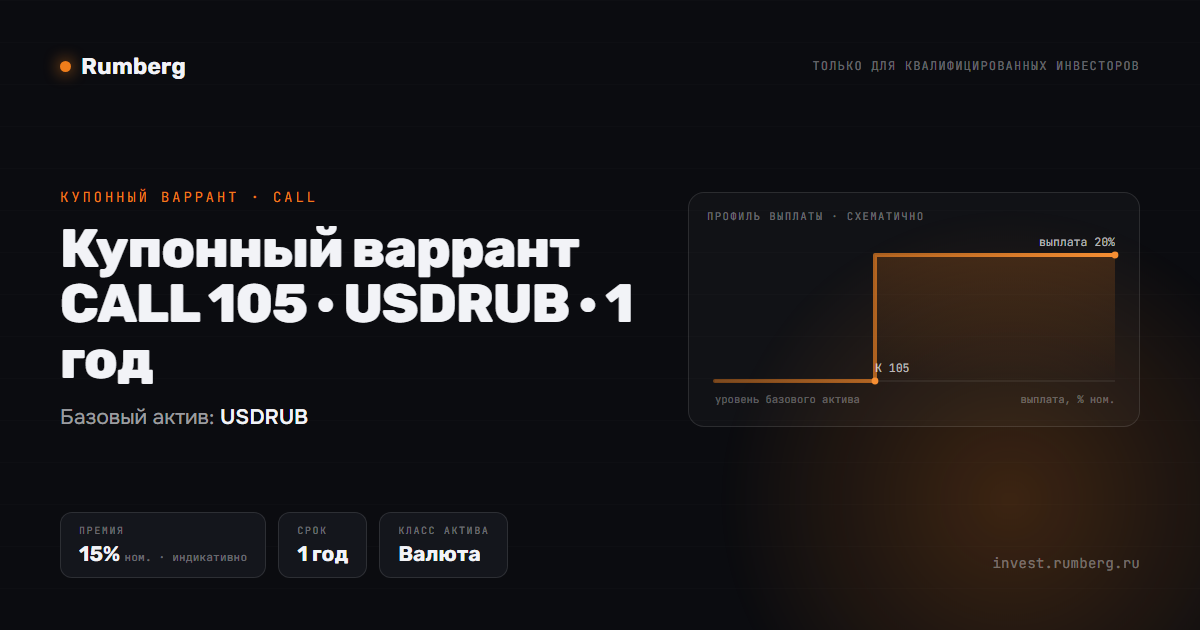
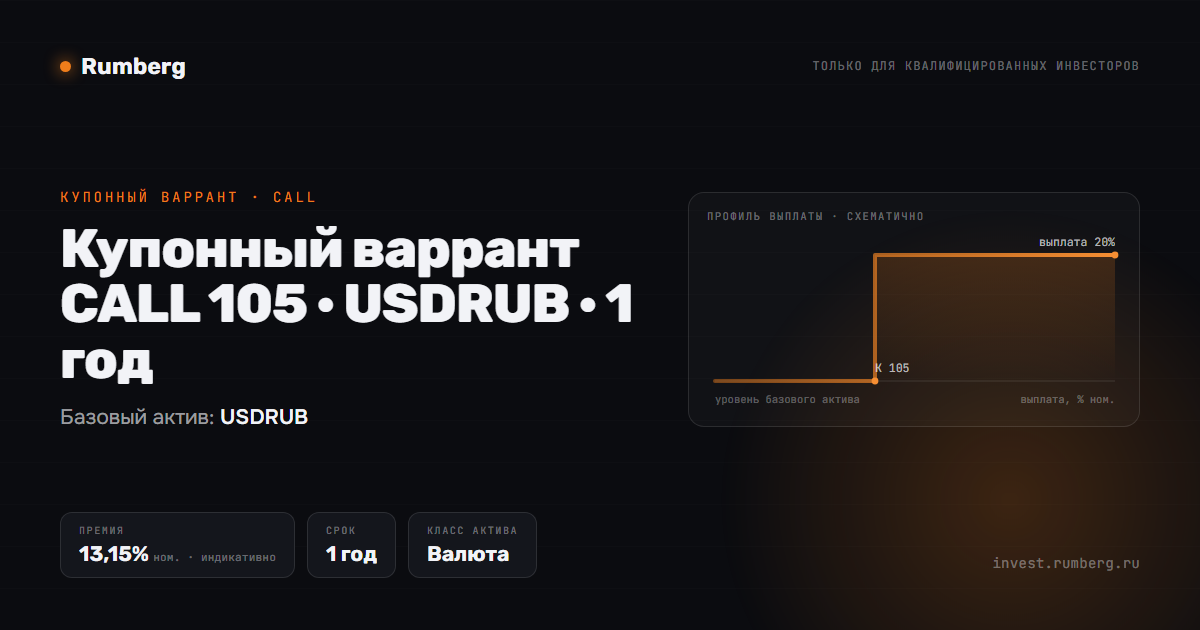
USDRUB: оставлены два купонных варранта CALL 105, доход на премию в one-pager
На доске остаются DG-USDRUB-C105-1027 (1 год, выплата 20%, премия 13,15%)
и DG-USDRUB-C105-1028 (2 года, выплата 40%, премия 25,25%). CALL 100 на
1 и 2 года сняты: страницы p/ и обложки og/ удалены, пререндер доски и
главной пересобран.

One-pager купонного варранта: плитка «Доход на премию при выплате»
вместо «Макс. убыток» (убыток виден во второй строке примера); в описании
«получает 20% номинала — +N% к вложенной премии».

Changed region(s): [[0.0617, 0.8143, 0.4317, 0.9048]]

diff --git a/board.html b/board.html
@@ -340,7 +340,7 @@
         <div class="chips chips-sub"><span class="chips" id="f-tenor"></span><span class="chips" id="f-ccy"></span></div>
       </div>
       <div class="list-top"><button class="ta" id="toggle-all" type="button"></button></div>
-      <div class="list" id="list"><!-- seo:start --><div class="seo-pre"><p>Доска инструментов Rumberg: 120 структурных продуктов для квалифицированных инвесторов. Котировки индикативные, обновляются по мере пересчёта прайсинга.</p><h2>Дисконтные облигации</h2><ul><li>Дисконтная облигация на ВЭБ.РФ · 3 года.</li><li>Дисконтная облигация на ВЭБ.РФ · 5 лет.</li><li>Дисконтная облигация на Газпром нефть · 3 года.</li><li>Дисконтная облигация на Газпром нефть · 5 лет.</li><li>Дисконтная облигация на Магнит · 3 года.</li><li>Дисконтная облигация на Магнит · 5 лет.</li><li>Дисконтная облигация на Ростелеком · 3 года.</li><li>Дисконтная облигация на Ростелеком · 5 лет.</li><li>Дисконтная облигация на Северсталь · 3 года.</li><li>Дисконтная облигация на Северсталь · 5 лет.</li></ul><h2>Облигации с защитой капитала</h2><ul><li>Защита капитала · MU · 2 года, базовый актив — Micron Technology (MU), валюта USD.</li><li>Защита капитала · MU · до +50% · 2 года, базовый актив — Micron Technology (MU), валюта USD.</li><li>Защита капитала · QCOM · 2 года, базовый актив — Qualcomm (QCOM), валюта USD.</li><li>Защита капитала · QCOM · до +50% · 2 года, базовый актив — Qualcomm (QCOM), валюта USD.</li><li>Защита капитала · DELL · 2 года, базовый актив — Dell Technologies (DELL), валюта USD.</li><li>Защита капитала · DELL · до +50% · 2 года, базовый актив — Dell Technologies (DELL), валюта USD.</li><li>Защита капитала · SMCI · 2 года, базовый актив — Super Micro Computer (SMCI), валюта USD.</li><li>Защита капитала · SMCI · до +50% · 2 года, базовый актив — Super Micro Computer (SMCI), валюта USD.</li><li>Защита капитала · ORCL · 2 года, базовый актив — Oracle (ORCL), валюта USD.</li><li>Защита капитала · ORCL · до +50% · 2 года, базовый актив — Oracle (ORCL), валюта USD.</li><li>Защита капитала · MU · 3 года, базовый актив — Micron Technology (MU), валюта USD.</li><li>Защита капитала · MU · до +50% · 3 года, базовый актив — Micron Technology (MU), валюта USD.</li><li>Защита капитала · QCOM · 3 года, базовый актив — Qualcomm (QCOM), валюта USD.</li><li>Защита капитала · QCOM · до +50% · 3 года, базовый актив — Qualcomm (QCOM), валюта USD.</li><li>Защита капитала · DELL · 3 года, базовый актив — Dell Technologies (DELL), валюта USD.</li><li>Защита капитала · DELL · до +50% · 3 года, базовый актив — Dell Technologies (DELL), валюта USD.</li><li>Защита капитала · SMCI · 3 года, базовый актив — Super Micro Computer (SMCI), валюта USD.</li><li>Защита капитала · SMCI · до +50% · 3 года, базовый актив — Super Micro Computer (SMCI), валюта USD.</li><li>Защита капитала · ORCL · 3 года, базовый актив — Oracle (ORCL), валюта USD.</li><li>Защита капитала · ORCL · до +50% · 3 года, базовый актив — Oracle (ORCL), валюта USD.</li><li>Защита капитала · худшая из корзины · 1 год, базовый актив — Полюс / Сбербанк / Лукойл.</li><li>Защита капитала · худшая из корзины · 2 года, базовый актив — Полюс / Сбербанк / Лукойл.</li><li>Защита капитала · Сбербанк · 1 год.</li><li>Защита капитала · Лукойл · 1 год.</li><li>Защита капитала · Полюс · 1 год.</li><li>Защита капитала · Сбербанк · 2 года.</li><li>Защита капитала · Лукойл · 2 года.</li><li>Защита капитала · Полюс · 2 года.</li><li>Защита капитала · ОФЗ 26238 · 2 года.</li><li>Защита капитала · ОФЗ 26238 · рост от +5% · 2 года.</li><li>Защита капитала · CSI 300 · 2 года.</li><li>Защита капитала · CSI 300 · 3 года.</li><li>Защита капитала · S&amp;P 500 · 2 года.</li><li>Защита капитала · S&amp;P 500 · 3 года.</li><li>Защита капитала · ОФЗ 26238 · 3 года.</li><li>Защита капитала · ОФЗ 26248 · 2 года.</li></ul><h2>Варранты</h2><ul><li>CALL 100 · ОФЗ 26238 · 2 года.</li><li>CALL 100 · ОФЗ 26238 · 3 года.</li><li>CALL 105 · ОФЗ 26238 · 2 года.</li><li>CALL 105 · ОФЗ 26238 · 3 года.</li><li>CALL 100 · NBIS · 2 года, базовый актив — Nebius Group (NBIS), валюта USD.</li><li>CALL 100 · NBIS · 3 года, базовый актив — Nebius Group (NBIS), валюта USD.</li><li>CS 100–150 · NBIS · 2 года, базовый актив — Nebius Group (NBIS), валюта USD.</li><li>CS 100–150 · NBIS · 3 года, базовый актив — Nebius Group (NBIS), валюта USD.</li><li>CALL 100 · NVDA · 2 года, базовый актив — NVIDIA (NVDA), валюта USD.</li><li>CALL 100 · NVDA · 3 года, базовый актив — NVIDIA (NVDA), валюта USD.</li><li>CS 100–150 · NVDA · 2 года, базовый актив — NVIDIA (NVDA), валюта USD.</li><li>CS 100–150 · NVDA · 3 года, базовый актив — NVIDIA (NVDA), валюта USD.</li><li>CALL 100 · SPY · 2 года, базовый актив — S&amp;P 500 (SPY), валюта USD.</li><li>CALL 100 · SPY · 3 года, базовый актив — S&amp;P 500 (SPY), валюта USD.</li><li>CALL 100 · GLD · 2 года, базовый актив — Золото (GLD), валюта USD.</li><li>CALL 100 · GLD · 3 года, базовый актив — Золото (GLD), валюта USD.</li><li>CALL 100 · IBIT · 2 года, базовый актив — Bitcoin (IBIT), валюта USD.</li><li>CALL 100 · IBIT · 3 года, базовый актив — Bitcoin (IBIT), валюта USD.</li><li>CS 100–150 · IBIT · 2 года, базовый актив — Bitcoin (IBIT), валюта USD.</li><li>CS 100–150 · IBIT · 3 года, базовый актив — Bitcoin (IBIT), валюта USD.</li><li>CALL 100 · CSI 300 · 2 года, валюта USD.</li><li>CALL 100 · CSI 300 · 3 года, валюта USD.</li><li>CALL 100 · Hang Seng · 2 года, валюта USD.</li><li>CALL 100 · Hang Seng · 3 года, валюта USD.</li><li>CALL 100 · MU · 2 года, базовый актив — Micron Technology (MU), валюта USD.</li><li>CS 100–150 · MU · 2 года, базовый актив — Micron Technology (MU), валюта USD.</li><li>CALL 100 · QCOM · 2 года, базовый актив — Qualcomm (QCOM), валюта USD.</li><li>CS 100–150 · QCOM · 2 года, базовый актив — Qualcomm (QCOM), валюта USD.</li><li>CALL 100 · DELL · 2 года, базовый актив — Dell Technologies (DELL), валюта USD.</li><li>CS 100–150 · DELL · 2 года, базовый актив — Dell Technologies (DELL), валюта USD.</li><li>CALL 100 · SMCI · 2 года, базовый актив — Super Micro Computer (SMCI), валюта USD.</li><li>CS 100–150 · SMCI · 2 года, базовый актив — Super Micro Computer (SMCI), валюта USD.</li><li>CALL 100 · ORCL · 2 года, базовый актив — Oracle (ORCL), валюта USD.</li><li>CS 100–150 · ORCL · 2 года, базовый актив — Oracle (ORCL), валюта USD.</li><li>CALL 100 · MU · 3 года, базовый актив — Micron Technology (MU), валюта USD.</li><li>CS 100–150 · MU · 3 года, базовый актив — Micron Technology (MU), валюта USD.</li><li>CALL 100 · QCOM · 3 года, базовый актив — Qualcomm (QCOM), валюта USD.</li><li>CS 100–150 · QCOM · 3 года, базовый актив — Qualcomm (QCOM), валюта USD.</li><li>CALL 100 · DELL · 3 года, базовый актив — Dell Technologies (DELL), валюта USD.</li><li>CS 100–150 · DELL · 3 года, базовый актив — Dell Technologies (DELL), валюта USD.</li><li>CALL 100 · SMCI · 3 года, базовый актив — Super Micro Computer (SMCI), валюта USD.</li><li>CS 100–150 · SMCI · 3 года, базовый актив — Super Micro Computer (SMCI), валюта USD.</li><li>CALL 100 · ORCL · 3 года, базовый актив — Oracle (ORCL), валюта USD.</li><li>CS 100–150 · ORCL · 3 года, базовый актив — Oracle (ORCL), валюта USD.</li><li>CALL 100 · худшая из корзины · 1 год, базовый актив — Полюс / Сбербанк / Лукойл.</li><li>CALL 100 · худшая из корзины · 2 года, базовый актив — Полюс / Сбербанк / Лукойл.</li><li>CALL 100 · Сбербанк · 1 год.</li><li>CALL 100 · Лукойл · 1 год.</li><li>CALL 100 · Полюс · 1 год.</li><li>CALL 100 · Сбербанк · 2 года.</li><li>CALL 100 · Лукойл · 2 года.</li><li>CALL 100 · Полюс · 2 года.</li><li>Call, базовый актив — CNYRUB, срок 1 год.</li><li>CALL 100 · Газпром · 1 год.</li><li>CALL 100 · ДОМ.РФ · 1 год.</li><li>CALL 100 · ОФЗ 26254 · 2 года, базовый актив — ОФЗ-26254.</li><li>CALL 105 · ОФЗ 26254 · 2 года, базовый актив — ОФЗ-26254.</li><li>Средняя динамика корзины · 1 год, базовый актив — Газпром/Лукойл/Мечел/Озон/Полюс/ВК.</li><li>Средняя динамика корзины · 2 года, базовый актив — Газпром/Лукойл/Мечел/Озон/Полюс/ВК.</li><li>Средняя динамика корзины · 1 год, базовый актив — Лукойл/Озон/Полюс.</li><li>Средняя динамика корзины · 2 года, базовый актив — Лукойл/Озон/Полюс.</li></ul><h2>Бустеры</h2><ul><li>Бустер · Яндекс · 9 месяцев.</li><li>Бустер · Сбербанк · 9 месяцев.</li><li>Бустер · Лукойл · 9 месяцев.</li><li>Бустер · Т-Банк · 9 месяцев.</li></ul><h2>Автоколлы</h2><ul><li>Автоколл · Полупроводники США · 3 года, базовый актив — NVDA / AMD / INTC, валюта USD.</li><li>Автоколл · Big Tech США · 3 года, базовый актив — NVDA / TSLA / AMZN / GOOGL, валюта USD.</li></ul><h2>Реверс-конвертиблы</h2><ul><li>Реверс-конвертибл на Газпром · 6 месяцев.</li></ul><h2>Реверс-конвертиблы с условным купоном</h2><ul><li>Условный купон 28,5% · ОФЗ 26248 · 1 год.</li></ul><h2>Купонные варранты</h2><ul><li>Купонный варрант CALL 105 · ОФЗ 26248 · 1,5 года.</li><li>Купонный варрант CALL 100 · USDRUB · 1 год.</li><li>Купонный варрант CALL 100 · USDRUB · 2 года.</li><li>Купонный варрант CALL 105 · USDRUB · 1 год.</li><li>Купонный варрант CALL 105 · USDRUB · 2 года.</li></ul></div><!-- seo:end --></div>
+      <div class="list" id="list"><!-- seo:start --><div class="seo-pre"><p>Доска инструментов Rumberg: 118 структурных продуктов для квалифицированных инвесторов. Котировки индикативные, обновляются по мере пересчёта прайсинга.</p><h2>Дисконтные облигации</h2><ul><li>Дисконтная облигация на ВЭБ.РФ · 3 года.</li><li>Дисконтная облигация на ВЭБ.РФ · 5 лет.</li><li>Дисконтная облигация на Газпром нефть · 3 года.</li><li>Дисконтная облигация на Газпром нефть · 5 лет.</li><li>Дисконтная облигация на Магнит · 3 года.</li><li>Дисконтная облигация на Магнит · 5 лет.</li><li>Дисконтная облигация на Ростелеком · 3 года.</li><li>Дисконтная облигация на Ростелеком · 5 лет.</li><li>Дисконтная облигация на Северсталь · 3 года.</li><li>Дисконтная облигация на Северсталь · 5 лет.</li></ul><h2>Облигации с защитой капитала</h2><ul><li>Защита капитала · MU · 2 года, базовый актив — Micron Technology (MU), валюта USD.</li><li>Защита капитала · MU · до +50% · 2 года, базовый актив — Micron Technology (MU), валюта USD.</li><li>Защита капитала · QCOM · 2 года, базовый актив — Qualcomm (QCOM), валюта USD.</li><li>Защита капитала · QCOM · до +50% · 2 года, базовый актив — Qualcomm (QCOM), валюта USD.</li><li>Защита капитала · DELL · 2 года, базовый актив — Dell Technologies (DELL), валюта USD.</li><li>Защита капитала · DELL · до +50% · 2 года, базовый актив — Dell Technologies (DELL), валюта USD.</li><li>Защита капитала · SMCI · 2 года, базовый актив — Super Micro Computer (SMCI), валюта USD.</li><li>Защита капитала · SMCI · до +50% · 2 года, базовый актив — Super Micro Computer (SMCI), валюта USD.</li><li>Защита капитала · ORCL · 2 года, базовый актив — Oracle (ORCL), валюта USD.</li><li>Защита капитала · ORCL · до +50% · 2 года, базовый актив — Oracle (ORCL), валюта USD.</li><li>Защита капитала · MU · 3 года, базовый актив — Micron Technology (MU), валюта USD.</li><li>Защита капитала · MU · до +50% · 3 года, базовый актив — Micron Technology (MU), валюта USD.</li><li>Защита капитала · QCOM · 3 года, базовый актив — Qualcomm (QCOM), валюта USD.</li><li>Защита капитала · QCOM · до +50% · 3 года, базовый актив — Qualcomm (QCOM), валюта USD.</li><li>Защита капитала · DELL · 3 года, базовый актив — Dell Technologies (DELL), валюта USD.</li><li>Защита капитала · DELL · до +50% · 3 года, базовый актив — Dell Technologies (DELL), валюта USD.</li><li>Защита капитала · SMCI · 3 года, базовый актив — Super Micro Computer (SMCI), валюта USD.</li><li>Защита капитала · SMCI · до +50% · 3 года, базовый актив — Super Micro Computer (SMCI), валюта USD.</li><li>Защита капитала · ORCL · 3 года, базовый актив — Oracle (ORCL), валюта USD.</li><li>Защита капитала · ORCL · до +50% · 3 года, базовый актив — Oracle (ORCL), валюта USD.</li><li>Защита капитала · худшая из корзины · 1 год, базовый актив — Полюс / Сбербанк / Лукойл.</li><li>Защита капитала · худшая из корзины · 2 года, базовый актив — Полюс / Сбербанк / Лукойл.</li><li>Защита капитала · Сбербанк · 1 год.</li><li>Защита капитала · Лукойл · 1 год.</li><li>Защита капитала · Полюс · 1 год.</li><li>Защита капитала · Сбербанк · 2 года.</li><li>Защита капитала · Лукойл · 2 года.</li><li>Защита капитала · Полюс · 2 года.</li><li>Защита капитала · ОФЗ 26238 · 2 года.</li><li>Защита капитала · ОФЗ 26238 · рост от +5% · 2 года.</li><li>Защита капитала · CSI 300 · 2 года.</li><li>Защита капитала · CSI 300 · 3 года.</li><li>Защита капитала · S&amp;P 500 · 2 года.</li><li>Защита капитала · S&amp;P 500 · 3 года.</li><li>Защита капитала · ОФЗ 26238 · 3 года.</li><li>Защита капитала · ОФЗ 26248 · 2 года.</li></ul><h2>Варранты</h2><ul><li>CALL 100 · ОФЗ 26238 · 2 года.</li><li>CALL 100 · ОФЗ 26238 · 3 года.</li><li>CALL 105 · ОФЗ 26238 · 2 года.</li><li>CALL 105 · ОФЗ 26238 · 3 года.</li><li>CALL 100 · NBIS · 2 года, базовый актив — Nebius Group (NBIS), валюта USD.</li><li>CALL 100 · NBIS · 3 года, базовый актив — Nebius Group (NBIS), валюта USD.</li><li>CS 100–150 · NBIS · 2 года, базовый актив — Nebius Group (NBIS), валюта USD.</li><li>CS 100–150 · NBIS · 3 года, базовый актив — Nebius Group (NBIS), валюта USD.</li><li>CALL 100 · NVDA · 2 года, базовый актив — NVIDIA (NVDA), валюта USD.</li><li>CALL 100 · NVDA · 3 года, базовый актив — NVIDIA (NVDA), валюта USD.</li><li>CS 100–150 · NVDA · 2 года, базовый актив — NVIDIA (NVDA), валюта USD.</li><li>CS 100–150 · NVDA · 3 года, базовый актив — NVIDIA (NVDA), валюта USD.</li><li>CALL 100 · SPY · 2 года, базовый актив — S&amp;P 500 (SPY), валюта USD.</li><li>CALL 100 · SPY · 3 года, базовый актив — S&amp;P 500 (SPY), валюта USD.</li><li>CALL 100 · GLD · 2 года, базовый актив — Золото (GLD), валюта USD.</li><li>CALL 100 · GLD · 3 года, базовый актив — Золото (GLD), валюта USD.</li><li>CALL 100 · IBIT · 2 года, базовый актив — Bitcoin (IBIT), валюта USD.</li><li>CALL 100 · IBIT · 3 года, базовый актив — Bitcoin (IBIT), валюта USD.</li><li>CS 100–150 · IBIT · 2 года, базовый актив — Bitcoin (IBIT), валюта USD.</li><li>CS 100–150 · IBIT · 3 года, базовый актив — Bitcoin (IBIT), валюта USD.</li><li>CALL 100 · CSI 300 · 2 года, валюта USD.</li><li>CALL 100 · CSI 300 · 3 года, валюта USD.</li><li>CALL 100 · Hang Seng · 2 года, валюта USD.</li><li>CALL 100 · Hang Seng · 3 года, валюта USD.</li><li>CALL 100 · MU · 2 года, базовый актив — Micron Technology (MU), валюта USD.</li><li>CS 100–150 · MU · 2 года, базовый актив — Micron Technology (MU), валюта USD.</li><li>CALL 100 · QCOM · 2 года, базовый актив — Qualcomm (QCOM), валюта USD.</li><li>CS 100–150 · QCOM · 2 года, базовый актив — Qualcomm (QCOM), валюта USD.</li><li>CALL 100 · DELL · 2 года, базовый актив — Dell Technologies (DELL), валюта USD.</li><li>CS 100–150 · DELL · 2 года, базовый актив — Dell Technologies (DELL), валюта USD.</li><li>CALL 100 · SMCI · 2 года, базовый актив — Super Micro Computer (SMCI), валюта USD.</li><li>CS 100–150 · SMCI · 2 года, базовый актив — Super Micro Computer (SMCI), валюта USD.</li><li>CALL 100 · ORCL · 2 года, базовый актив — Oracle (ORCL), валюта USD.</li><li>CS 100–150 · ORCL · 2 года, базовый актив — Oracle (ORCL), валюта USD.</li><li>CALL 100 · MU · 3 года, базовый актив — Micron Technology (MU), валюта USD.</li><li>CS 100–150 · MU · 3 года, базовый актив — Micron Technology (MU), валюта USD.</li><li>CALL 100 · QCOM · 3 года, базовый актив — Qualcomm (QCOM), валюта USD.</li><li>CS 100–150 · QCOM · 3 года, базовый актив — Qualcomm (QCOM), валюта USD.</li><li>CALL 100 · DELL · 3 года, базовый актив — Dell Technologies (DELL), валюта USD.</li><li>CS 100–150 · DELL · 3 года, базовый актив — Dell Technologies (DELL), валюта USD.</li><li>CALL 100 · SMCI · 3 года, базовый актив — Super Micro Computer (SMCI), валюта USD.</li><li>CS 100–150 · SMCI · 3 года, базовый актив — Super Micro Computer (SMCI), валюта USD.</li><li>CALL 100 · ORCL · 3 года, базовый актив — Oracle (ORCL), валюта USD.</li><li>CS 100–150 · ORCL · 3 года, базовый актив — Oracle (ORCL), валюта USD.</li><li>CALL 100 · худшая из корзины · 1 год, базовый актив — Полюс / Сбербанк / Лукойл.</li><li>CALL 100 · худшая из корзины · 2 года, базовый актив — Полюс / Сбербанк / Лукойл.</li><li>CALL 100 · Сбербанк · 1 год.</li><li>CALL 100 · Лукойл · 1 год.</li><li>CALL 100 · Полюс · 1 год.</li><li>CALL 100 · Сбербанк · 2 года.</li><li>CALL 100 · Лукойл · 2 года.</li><li>CALL 100 · Полюс · 2 года.</li><li>Call, базовый актив — CNYRUB, срок 1 год.</li><li>CALL 100 · Газпром · 1 год.</li><li>CALL 100 · ДОМ.РФ · 1 год.</li><li>CALL 100 · ОФЗ 26254 · 2 года, базовый актив — ОФЗ-26254.</li><li>CALL 105 · ОФЗ 26254 · 2 года, базовый актив — ОФЗ-26254.</li><li>Средняя динамика корзины · 1 год, базовый актив — Газпром/Лукойл/Мечел/Озон/Полюс/ВК.</li><li>Средняя динамика корзины · 2 года, базовый актив — Газпром/Лукойл/Мечел/Озон/Полюс/ВК.</li><li>Средняя динамика корзины · 1 год, базовый актив — Лукойл/Озон/Полюс.</li><li>Средняя динамика корзины · 2 года, базовый актив — Лукойл/Озон/Полюс.</li></ul><h2>Бустеры</h2><ul><li>Бустер · Яндекс · 9 месяцев.</li><li>Бустер · Сбербанк · 9 месяцев.</li><li>Бустер · Лукойл · 9 месяцев.</li><li>Бустер · Т-Банк · 9 месяцев.</li></ul><h2>Автоколлы</h2><ul><li>Автоколл · Полупроводники США · 3 года, базовый актив — NVDA / AMD / INTC, валюта USD.</li><li>Автоколл · Big Tech США · 3 года, базовый актив — NVDA / TSLA / AMZN / GOOGL, валюта USD.</li></ul><h2>Реверс-конвертиблы</h2><ul><li>Реверс-конвертибл на Газпром · 6 месяцев.</li></ul><h2>Реверс-конвертиблы с условным купоном</h2><ul><li>Условный купон 28,5% · ОФЗ 26248 · 1 год.</li></ul><h2>Купонные варранты</h2><ul><li>Купонный варрант CALL 105 · ОФЗ 26248 · 1,5 года.</li><li>Купонный варрант CALL 105 · USDRUB · 1 год.</li><li>Купонный варрант CALL 105 · USDRUB · 2 года.</li></ul></div><!-- seo:end --></div>
       <div class="cmp-bar" id="cmp-bar">
         <span class="cnt" id="cmp-cnt"></span><span id="cmp-hint"></span>
         <button class="rst" id="cmp-reset" type="button">Сбросить</button>

diff --git a/onepager.html b/onepager.html
@@ -974,6 +974,12 @@
     const payoutRub = nom * pay / 100;
     const net = payoutRub - premiumRub;
     const mult = q ? pay / q : 0;
+    // Доход на вложенную премию при срабатывании — главный довод продукта,
+    // поэтому он вынесен в плитку и в описание, а не только мелкой подписью
+    // под примером (просьба Руслана 06.10.2026). Ниже порога — −100%, это
+    // сказано во второй строке примера, поэтому плитку «Макс. убыток» он заменил.
+    const roi = premiumRub ? Math.round(net / premiumRub * 100) : null;
+    const roiOk = roi != null && isFinite(roi);
     c = {
       badge: "Купонный варрант · структурная облигация",
       subtitle: "Фиксированная выплата " + S.fmtSmart(pay) + "% номинала, если " + (isWO ? BK.nom : inst.underlying) +
@@ -985,7 +991,8 @@
       params: [["Страйк (K)", S.fmtSmart(K) + "% нач. уровня", false],
         ["Выплата", S.fmtSmart(pay) + "% номинала", true],
         ["Срок", inst.tenor, false],
-        ["Макс. убыток", "премия", false]],
+        roiOk ? ["Доход на премию при выплате", (roi >= 0 ? "+" : "−") + Math.abs(roi) + "%", true]
+          : ["Макс. убыток", "премия", false]],
       exIntro: "Номинал " + S.fmtInt(nom) + " ₽ · премия " + S.fmt2(q) + "% = " + S.fmtInt(premiumRub) + " ₽",
       // Две строки, как у колл-спреда: третья не помещается в слайд 540px.
       // Берём крайние случаи — порог взят и порог не взят: между ними у продукта
@@ -1000,7 +1007,7 @@
         "% номинала, если на экспирацию " + uGenAsset + " не ниже страйка " + S.fmtSmart(K) +
         "%. Насколько именно актив выше страйка — на выплату не влияет: этим купонный варрант отличается от обычного CALL. " +
         "Инвестор платит только премию (" + S.fmt2(q) + "% номинала)" +
-        (mult > 1 ? " и при срабатывании получает в " + S.fmt1(mult) + " раза больше" : "") +
+        (mult > 1 && roiOk ? " и при срабатывании получает " + S.fmtSmart(pay) + "% номинала — +" + roi + "% к вложенной премии" : "") +
         "; если порог не взят — теряется премия."
     };
   } else if (inst.type === "discount") {

diff --git a/p/DG-USDRUB-C105-1028.html b/p/DG-USDRUB-C105-1028.html
@@ -4,12 +4,12 @@
 <meta charset="utf-8">
 <meta name="viewport" content="width=device-width, initial-scale=1">
 <title>Купонный варрант CALL 105 · USDRUB · 2 года — Rumberg</title>
-<meta name="description" content="Купонный варрант на USDRUB · выплата 40% номинала при уровне от 105% · премия 28,5% · Rumberg — структурные продукты для квалифицированных инвесторов">
+<meta name="description" content="Купонный варрант на USDRUB · выплата 40% номинала при уровне от 105% · премия 25,25% · Rumberg — структурные продукты для квалифицированных инвесторов">
 <meta property="og:type" content="website">
 <meta property="og:site_name" content="Rumberg">
 <meta property="og:locale" content="ru_RU">
 <meta property="og:title" content="Купонный варрант CALL 105 · USDRUB · 2 года">
-<meta property="og:description" content="Купонный варрант на USDRUB · выплата 40% номинала при уровне от 105% · премия 28,5% · Rumberg — структурные продукты для квалифицированных инвесторов">
+<meta property="og:description" content="Купонный варрант на USDRUB · выплата 40% номинала при уровне от 105% · премия 25,25% · Rumberg — структурные продукты для квалифицированных инвесторов">
 <meta property="og:url" content="https://invest.rumberg.ru/p/DG-USDRUB-C105-1028.html">
 <meta property="og:image" content="https://invest.rumberg.ru/og/DG-USDRUB-C105-1028.png">
 <meta property="og:image:width" content="1200">

diff --git a/p/DG-USDRUB-C105-1027.html b/p/DG-USDRUB-C105-1027.html
@@ -4,12 +4,12 @@
 <meta charset="utf-8">
 <meta name="viewport" content="width=device-width, initial-scale=1">
 <title>Купонный варрант CALL 105 · USDRUB · 1 год — Rumberg</title>
-<meta name="description" content="Купонный варрант на USDRUB · выплата 20% номинала при уровне от 105% · премия 15% · Rumberg — структурные продукты для квалифицированных инвесторов">
+<meta name="description" content="Купонный варрант на USDRUB · выплата 20% номинала при уровне от 105% · премия 13,15% · Rumberg — структурные продукты для квалифицированных инвесторов">
 <meta property="og:type" content="website">
 <meta property="og:site_name" content="Rumberg">
 <meta property="og:locale" content="ru_RU">
 <meta property="og:title" content="Купонный варрант CALL 105 · USDRUB · 1 год">
-<meta property="og:description" content="Купонный варрант на USDRUB · выплата 20% номинала при уровне от 105% · премия 15% · Rumberg — структурные продукты для квалифицированных инвесторов">
+<meta property="og:description" content="Купонный варрант на USDRUB · выплата 20% номинала при уровне от 105% · премия 13,15% · Rumberg — структурные продукты для квалифицированных инвесторов">
 <meta property="og:url" content="https://invest.rumberg.ru/p/DG-USDRUB-C105-1027.html">
 <meta property="og:image" content="https://invest.rumberg.ru/og/DG-USDRUB-C105-1027.png">
 <meta property="og:image:width" content="1200">

diff --git a/index.html b/index.html
@@ -833,7 +833,7 @@
              читались бы как её метаданные -->
         <div class="nvbox">
           <div class="ch"><h2>Разделы</h2></div>
-          <nav id="rail-list" aria-label="Разделы"><!-- seo:rail:start --><p>Разделы витрины: сотрудничество — условия работы для финансовых институтов и агентов; дайджест инвестиционных идей; разборы тем и компаний; текущие продукты — доска прайсинга, 120 инструментов; размещённые выпуски, 62 выпуска; библиотека типов продуктов; события; о компании; выступления — интервью и эфиры на внешних площадках.</p><!-- seo:rail:end --></nav>
+          <nav id="rail-list" aria-label="Разделы"><!-- seo:rail:start --><p>Разделы витрины: сотрудничество — условия работы для финансовых институтов и агентов; дайджест инвестиционных идей; разборы тем и компаний; текущие продукты — доска прайсинга, 118 инструментов; размещённые выпуски, 62 выпуска; библиотека типов продуктов; события; о компании; выступления — интервью и эфиры на внешних площадках.</p><!-- seo:rail:end --></nav>
         </div>
         <div class="stamp" id="stamp"></div>
       </section>

diff --git a/data/instruments.js b/data/instruments.js
@@ -40,46 +40,6 @@ window.SITE_DATA = {
       "src": "sales"
     },
     {
-      "id": "DG-USDRUB-C100-1027",
-      "type": "digital",
-      "structure": "call",
-      "name": "Купонный варрант CALL 100 · USDRUB · 1 год",
-      "underlying": "USDRUB",
-      "cls": "Валюта",
-      "currency": "RUB",
-      "uRef": "84,93",
-      "strike": 100,
-      "digitalPct": 20,
-      "floorPct": 0,
-      "spot": 100,
-      "tenor": "1 год",
-      "expiry": "06.10.2027",
-      "quote": 19,
-      "chg": 0,
-      "minNom": 1000000,
-      "src": "sales"
-    },
-    {
-      "id": "DG-USDRUB-C100-1028",
-      "type": "digital",
-      "structure": "call",
-      "name": "Купонный варрант CALL 100 · USDRUB · 2 года",
-      "underlying": "USDRUB",
-      "cls": "Валюта",
-      "currency": "RUB",
-      "uRef": "84,93",
-      "strike": 100,
-      "digitalPct": 40,
-      "floorPct": 0,
-      "spot": 100,
-      "tenor": "2 года",
-      "expiry": "06.10.2028",
-      "quote": 34.5,
-      "chg": 0,
-      "minNom": 1000000,
-      "src": "sales"
-    },
-    {
       "id": "DG-USDRUB-C105-1027",
       "type": "digital",
       "structure": "call",
@@ -94,7 +54,7 @@ window.SITE_DATA = {
       "spot": 100,
       "tenor": "1 год",
       "expiry": "06.10.2027",
-      "quote": 15,
+      "quote": 13.15,
       "chg": 0,
       "minNom": 1000000,
       "src": "sales"
@@ -114,7 +74,7 @@ window.SITE_DATA = {
       "spot": 100,
       "tenor": "2 года",
       "expiry": "06.10.2028",
-      "quote": 28.5,
+      "quote": 25.25,
       "chg": 0,
       "minNom": 1000000,
       "src": "sales"
